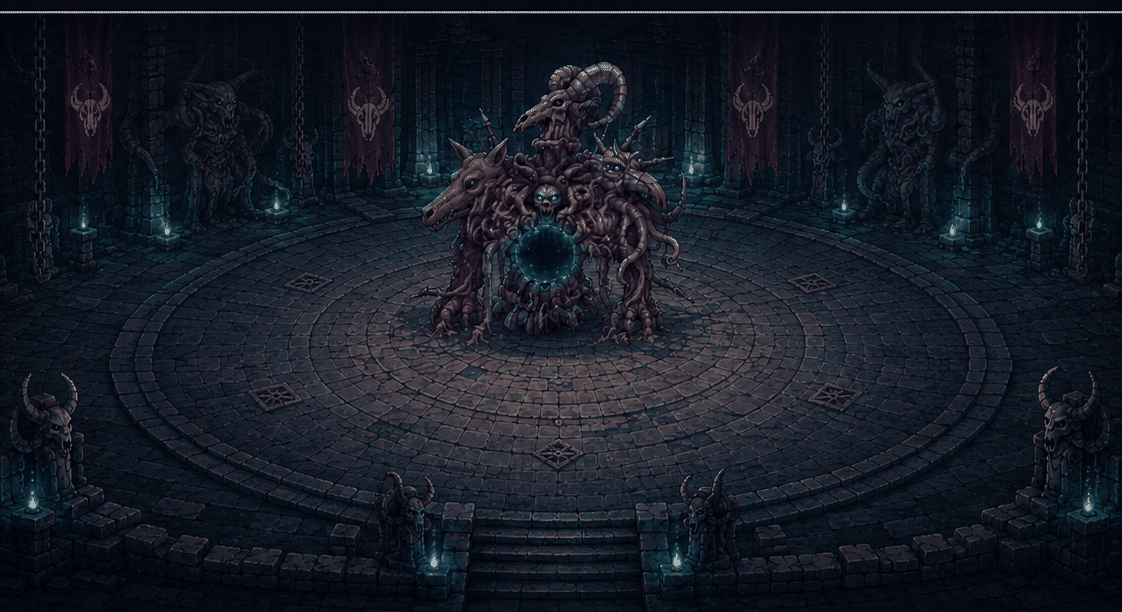
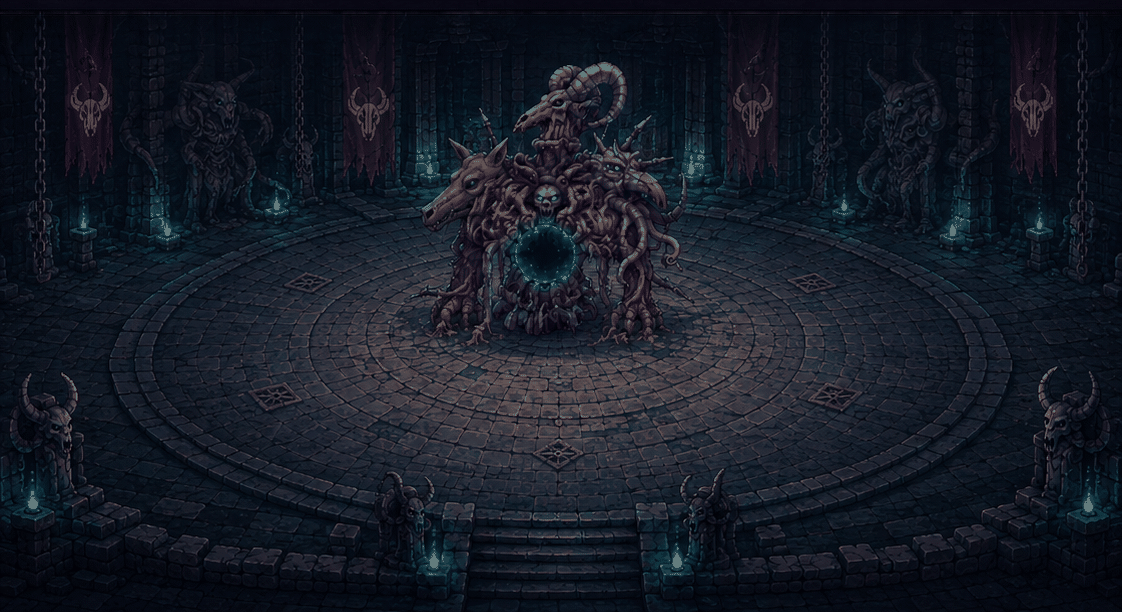
The white line was in the painting; bars top centre; a taunt every 5-10 s
"there is this weird white line above." Rows 11 and 12 of assets/rooms/arena.png were
a near-white line across the painting's full width (mean 141 and 227 against 13
everywhere around them) — a crop artefact in the source art, ruled in by hiding every
candidate in the harness one at a time until only `svg image` took the line with it,
and then by scanning the painting's rows. The two rows are blended from their
neighbours and the shipped copy regenerated through gen_rooms.py.

"make hp top center instead of left": the two bars are their own top-centre cluster;
the phase cluster stays top left at content width, so EXIT is back on its first row.

"make boss say line after every 5-10sec": a wall-clock taunt clock draws from the
whole pool with no immediate repeat while the fight runs, and the three beats
(waking, fury, dying) interrupt whatever is speaking. The limb and vent lines are
gone: they are the clock's job now.

Claude-Session: https://claude.ai/code/session_01EEXTAzmKzyEN2Z6QJdYUYm

diff --git a/app/src/render/Boss.tsx b/app/src/render/Boss.tsx
@@ -72,7 +72,7 @@ import {
 } from '@heartrot/client';
 
 import { ATLAS_H, ATLAS_SCALE, ATLAS_W, BOSS_ATLAS, BOSS_PARTS, EYES_PX } from './boss.gen';
-import { play, speak } from './sfx';
+import { play, speak, VOICE_NAMES, type VoiceName } from './sfx';
 
 /**
  * Which way a limb flinches and breaks off: away from the boss origin, along its own
@@ -251,20 +251,29 @@ export interface BossProps {
  * line to a different moment is one edit here and no asset moves. The clips are named for
  * where they came from (`sfx.ts::VoiceName`), deliberately not for these moments.
  *
- * `speak` refuses a line while another is still speaking, so a limb break landing on the
- * same tick as the vent opening plays one line, not two over each other. The limb line is
- * also held to one per `TAUNT_GAP_MS`: nine limbs breaking in a solo fight is nine
- * chances to speak, and a boss that talks on every one is a boss nobody listens to.
+ * The three beats interrupt whatever taunt is speaking; everything else is the taunt
+ * clock below.
  */
 const VOICE = {
   wakes: 'boss-new1',
-  limb: 'boss-02',
-  vent: 'boss-04',
   fury: 'boss-07',
   dies: 'boss-08',
 } as const;
-const TAUNT_GAP_MS = 12_000;
-let lastTauntAt = -Infinity;
+
+/**
+ * Between the beats the boss taunts on a clock: one line every 5–10 s of the fight, drawn
+ * from the whole pool with no immediate repeat ("make boss say line after every 5-10sec").
+ * Wall-clock, deliberately: this is presentation, not a rule, and a taunt cadence tied to
+ * the crank would stutter with the feed. `speak` still refuses a taunt that would land on
+ * top of a beat, so the cadence yields to the fight rather than the other way round.
+ */
+const TAUNT_MIN_MS = 5_000;
+const TAUNT_MAX_MS = 10_000;
+
+function nextTaunt(last: VoiceName | null): VoiceName {
+  const pool = VOICE_NAMES.filter((v) => v !== last);
+  return pool[Math.floor(Math.random() * pool.length)] ?? VOICE_NAMES[0]!;
+}
 
 export function Boss({ arena, boss, deathMs = DEATH_MS }: BossProps) {
   const shellRef = useRef<SVGGElement | null>(null);
@@ -319,6 +328,25 @@ export function Boss({ arena, boss, deathMs = DEATH_MS }: BossProps) {
     [],
   );
 
+  // The taunt clock runs only while the fight does. Keyed on the phase alone so a
+  // notification that changes nothing else never re-arms it, and cleared on the way out so
+  // a settled arena — or an unmounted room — never speaks.
+  const fighting = arena.phase === PHASE_FIGHTING;
+  useEffect(() => {
+    if (!fighting) return;
+    let last: VoiceName | null = null;
+    let timer = 0;
+    const arm = (): void => {
+      timer = window.setTimeout(() => {
+        last = nextTaunt(last);
+        speak(last);
+        arm();
+      }, TAUNT_MIN_MS + Math.random() * (TAUNT_MAX_MS - TAUNT_MIN_MS));
+    };
+    arm();
+    return () => window.clearTimeout(timer);
+  }, [fighting]);
+
   useEffect(() => {
     const now = { parts: boss.parts.slice(0, N_PARTS), phase: arena.phase, vent: boss.ventOpen, fury: furious };
     const was = prev.current;
@@ -353,10 +381,6 @@ export function Boss({ arena, boss, deathMs = DEATH_MS }: BossProps) {
 
       if (after === 0) {
         play('partBreak');
-        if (performance.now() - lastTauntAt >= TAUNT_GAP_MS) {
-          lastTauntAt = performance.now();
-          speak(VOICE.limb);
-        }
         el.classList.add('hr-dead');
         // Ends where `.hr-dead` rests, so the limb lands charred with no pop.
         el.animate(
@@ -396,22 +420,21 @@ export function Boss({ arena, boss, deathMs = DEATH_MS }: BossProps) {
     // The vent opening is one edge of one byte; the ring's own transition is the visual.
     if (was.vent !== VENT_OPEN && now.vent === VENT_OPEN) {
       play('ventOpen');
-      speak(VOICE.vent);
     }
     // Fury is the same shape: one edge of one derived bit, the class is the visual and
     // the roar is the one-shot. A reload onto a furious boss lands on the first-snapshot
     // return above and shows the glow without the roar.
     if (!was.fury && now.fury) {
       play('fury');
-      speak(VOICE.fury);
+      speak(VOICE.fury, true);
     }
     // The boss speaks on the tick it wakes — MUSTERING → FIGHTING is the crank's flip and
     // the one edge every raider sees at the same time — and on the tick the fight ends
     // with its core gone. A wipe or an enrage ends the fight through the same phase
     // change; the death line is only for the raid that actually killed it.
-    if (was.phase === PHASE_MUSTERING && now.phase === PHASE_FIGHTING) speak(VOICE.wakes);
+    if (was.phase === PHASE_MUSTERING && now.phase === PHASE_FIGHTING) speak(VOICE.wakes, true);
     if (was.phase === PHASE_FIGHTING && now.phase === PHASE_SETTLING && boss.coreHp === 0) {
-      speak(VOICE.dies);
+      speak(VOICE.dies, true);
     }
 
     const shell = shellRef.current;

diff --git a/app/src/render/sfx.ts b/app/src/render/sfx.ts
@@ -68,11 +68,12 @@ let noiseBuf: AudioBuffer | null = null;
  * has clicked, and a failed fetch is a line that never plays, not an error anywhere.
  */
 export type VoiceName = 'boss-02' | 'boss-04' | 'boss-07' | 'boss-08' | 'boss-new1';
-const VOICE_NAMES: readonly VoiceName[] = ['boss-02', 'boss-04', 'boss-07', 'boss-08', 'boss-new1'];
+export const VOICE_NAMES: readonly VoiceName[] = ['boss-02', 'boss-04', 'boss-07', 'boss-08', 'boss-new1'];
 /** Louder than a cue: a voice is the one sound meant to be listened to rather than felt. */
 const VOICE_GAIN = 1.6;
 /** One line at a time; a line asked for while one is speaking is dropped, not queued. */
 let voiceUntil = 0;
+let speaking: AudioBufferSourceNode | null = null;
 const voices = new Map<VoiceName, AudioBuffer>();
 let muted = readMuted();
 const lastAt = new Map<SfxName, number>();
@@ -311,15 +312,19 @@ function preloadVoices(c: AudioContext): void {
 /**
  * Speak one of the boss's lines. Same master as every cue, so MUTED silences it; its own
  * gain on top, because a voice under the volley's noise floor is a voice nobody hears.
- * Refused while another line is still speaking — two lines over each other is noise, and
- * the moments that ask for one (a limb breaking, the vent opening) can cluster in a tick.
+ * Refused while another line is still speaking — two lines over each other is noise —
+ * unless `interrupt` is set: the fight's beats (waking, fury, dying) cut a taunt off,
+ * because a boss finishing a quip over its own death is worse than a clipped quip.
  */
-export function speak(name: VoiceName): void {
+export function speak(name: VoiceName, interrupt = false): void {
   if (muted || ctx === null || master === null) return;
   const buffer = voices.get(name);
   if (buffer === undefined) return;
   const now = ctx.currentTime;
-  if (now < voiceUntil) return;
+  if (now < voiceUntil) {
+    if (!interrupt) return;
+    speaking?.stop();
+  }
   voiceUntil = now + buffer.duration;
   const src = ctx.createBufferSource();
   src.buffer = buffer;
@@ -328,6 +333,7 @@ export function speak(name: VoiceName): void {
   src.connect(g);
   g.connect(master);
   src.start(now);
+  speaking = src;
 }
 
 export function play(name: SfxName): void {

diff --git a/app/src/ui/Hud.tsx b/app/src/ui/Hud.tsx
@@ -228,9 +228,8 @@ const HUD_CSS = `
    the room. Fill colour is the state: --ok / --cyan while it is fine, --ember when it is
    not, which is the same rule the boss's own eyes follow. The mark on the boss bar is the
    enrage line at FURY_PCT. */
-.hud-tl { width: min(380px, 42vw); }
-.hud-vitals { display: grid; gap: 5px; margin: 6px 0 4px; }
-.hud-bar-row { display: grid; grid-template-columns: 62px 1fr 58px; align-items: center; gap: 8px; }
+.hud-vitals { display: grid; gap: 6px; }
+.hud-bar-row { display: grid; grid-template-columns: 68px 1fr 64px; align-items: center; gap: 10px; }
 .hud-bar-label { font-family: var(--pixel); font-size: 10px; letter-spacing: 0.1em; color: var(--muted); }
 .hud-bar-num { font-family: var(--mono); font-size: 12px; font-variant-numeric: tabular-nums; text-align: right; color: var(--ink); }
 .hud-bar { position: relative; height: 9px; background: color-mix(in srgb, var(--line) 55%, transparent); border: 1px solid var(--line); border-radius: 2px; overflow: hidden; }
@@ -287,6 +286,12 @@ export function Hud() {
           paragraph telling you where it is. `Verdict` stays because it is the end of a
           match, not chrome. */}
       <PhaseCluster />
+      {/* The two healths, top centre: "make hp top center instead of left". The phase
+          cluster stays top left; the bars are the one thing a raider reads from the far
+          side of the room, so they sit where every raid game puts them. */}
+      <div className="hud hud-tc">
+        <VitalsRow />
+      </div>
       <Verdict />
     </>
   );
@@ -385,7 +390,6 @@ function PhaseCluster() {
         <MutePill />
         <ExitPill />
       </div>
-      <VitalsRow />
       <ol className="hud-seats">
         {Array.from({ length: MAX_SEATS }, (_, i) => {
           const slot = players?.slots[i];
